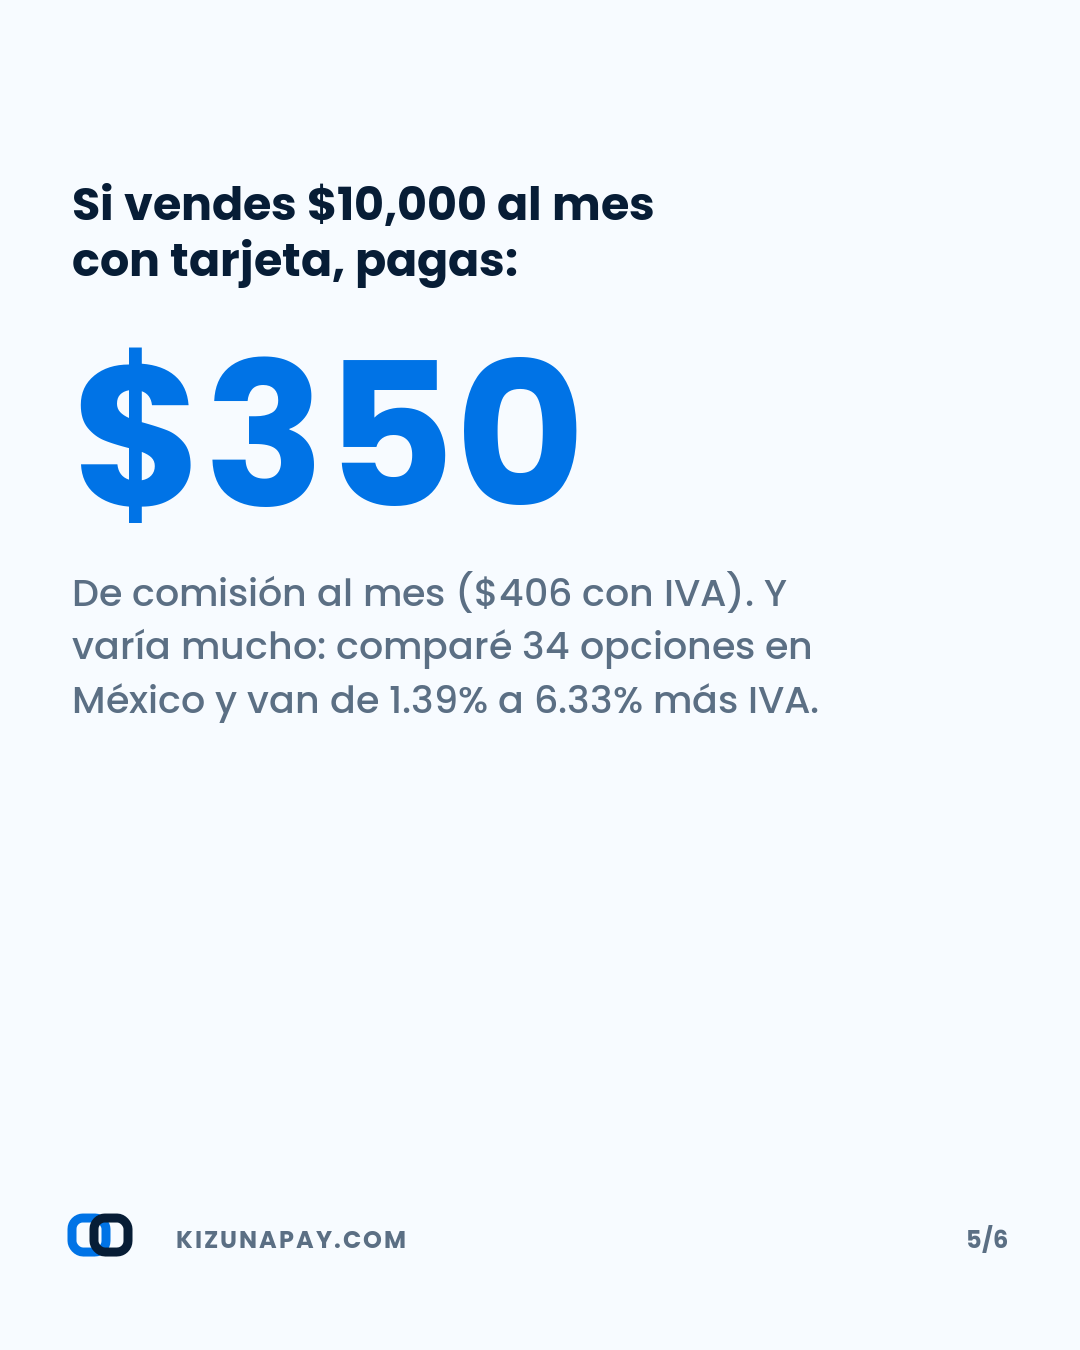
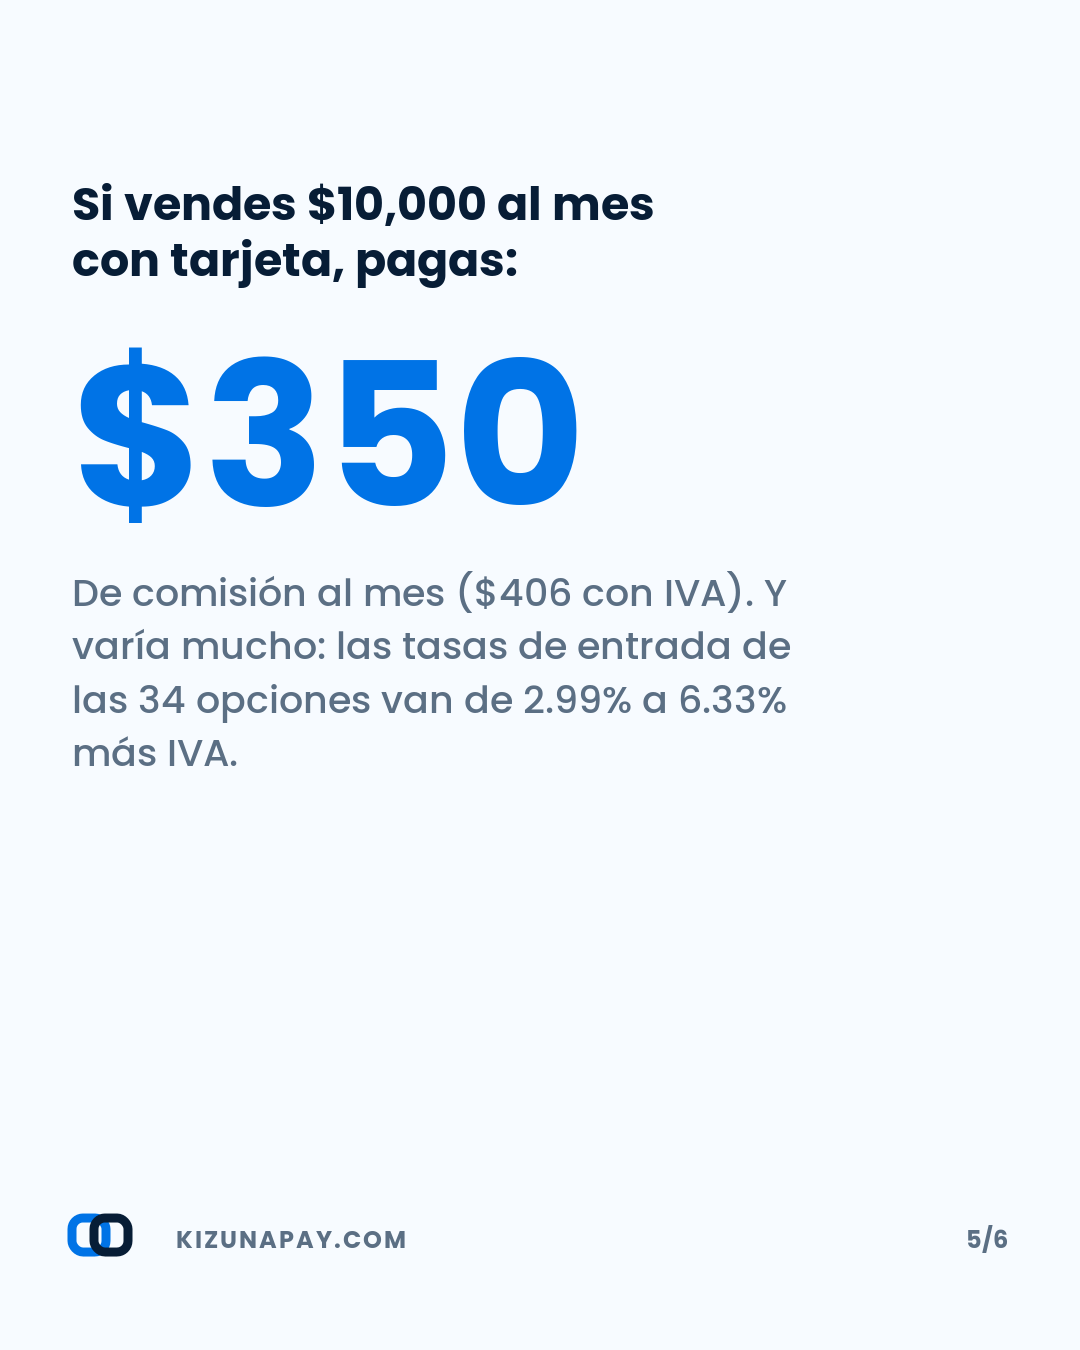
Corregir tasas: usar la de entrada, no la diferencial que exige tramite y CSF
Ualá Bis cobra 2.99% + IVA de entrada; el 1.39% es diferencial y requiere
solicitud, documentacion y CSF (que supone RFC). Usar esa cifra contradecia
justo lo que el sitio critica. Corregido en calculadora, FAQ, JSON-LD,
comparison-data, carrusel y pies de foto.

Changed region(s): [[0.0611, 0.4667, 0.7639, 0.5911]]

diff --git a/index.html b/index.html
@@ -28,7 +28,7 @@
 "sameAs":["https://www.facebook.com/profile.php?id=61582373169392","https://www.instagram.com/solucionesdecobrooax/"]}
 </script>
 <script type="application/ld+json">
-{"@context":"https://schema.org","@type":"FAQPage","mainEntity":[{"@type":"Question","name":"¿Cuánto cobran de comisión por cobrar con tarjeta?","acceptedAnswer":{"@type":"Answer","text":"En las 34 opciones que comparamos, la comisión va de 1.39% a 6.33% más IVA por venta, con la mayoría alrededor del 3.4%. La tasa cambia según si el cliente paga con débito o crédito, y varias opciones cobran además renta mensual o mínimos. Por eso comparar solo la tasa engaña: hay que sumar renta, contrato y tiempo de depósito."}},{"@type":"Question","name":"¿Necesito RFC para tener una terminal?","acceptedAnswer":{"@type":"Answer","text":"Depende de la ruta. Para una terminal bancaria sí: los bancos piden RFC, alta fiscal, cuenta empresarial y en varios casos e.firma. Las terminales de cobro rápido son más flexibles y algunas permiten empezar solo con identificación y validación de perfil. Si todavía no tienes RFC, nuestro diagnóstico descarta automáticamente las opciones bancarias en lugar de recomendarte algo que no vas a poder contratar."}},{"@type":"Question","name":"¿Cuánto tarda en llegarme el dinero?","acceptedAnswer":{"@type":"Answer","text":"Va del mismo día a 72 horas hábiles según el proveedor. Las terminales de cobro rápido suelen liberar el dinero el mismo día o al siguiente; la banca tradicional acostumbra 24 a 48 horas hábiles, y los fines de semana no cuentan. Si tu negocio compra insumos a diario, este dato pesa más que medio punto de comisión."}},{"@type":"Question","name":"¿Me obligan a firmar contrato o pagar renta mensual?","acceptedAnswer":{"@type":"Answer","text":"No siempre. Las terminales de compra única, como las Point que vendemos, no tienen renta ni contrato forzoso: pagas el equipo y la comisión por venta. Varias opciones bancarias sí incluyen renta, monto mínimo de venta o penalización por cancelar antes de tiempo. Esa letra chiquita está en nuestra comparativa."}},{"@type":"Question","name":"¿Qué es una solución de cobro?","acceptedAnswer":{"@type":"Answer","text":"Cualquier herramienta para recibir pagos: terminal física, link de pago, pasarela en línea, cuenta bancaria, billetera digital o cobranza recurrente. No todas sirven para lo mismo, y ahí es donde la mayoría se equivoca al elegir."}},{"@type":"Question","name":"¿Cuándo conviene la banca tradicional?","acceptedAnswer":{"@type":"Answer","text":"Cuando tu negocio ya tiene formalidad fiscal, ventas constantes y volumen suficiente para negociar. Con volumen alto, medio punto de comisión menos compensa la renta mensual. Con ventas bajas o irregulares, esa misma renta te come la ganancia."}},{"@type":"Question","name":"¿Qué me cuesta dar meses sin intereses?","acceptedAnswer":{"@type":"Answer","text":"Los meses sin intereses son gratis para tu cliente, no para ti: el costo lo absorbe el negocio y sube conforme al plazo. Puede convenir en tickets altos, donde la venta no se cierra sin esa facilidad, y rara vez conviene en ventas pequeñas."}},{"@type":"Question","name":"¿Me ayudan aunque no esté en Oaxaca?","acceptedAnswer":{"@type":"Answer","text":"Sí. Somos de Oaxaca, pero orientamos a cualquier negocio en México que quiera comparar antes de comprar o contratar. La asesoría es por WhatsApp y no tiene costo."}}]}
+{"@context":"https://schema.org","@type":"FAQPage","mainEntity":[{"@type":"Question","name":"¿Cuánto cobran de comisión por cobrar con tarjeta?","acceptedAnswer":{"@type":"Answer","text":"En las 34 opciones que comparamos, las tasas de entrada —lo que pagas desde el primer día, sin tramitar nada— van de 2.99% a 6.33% más IVA, con la mayoría entre 3% y 3.6%. Varias anuncian tasas menores, pero exigen solicitud, documentación y CSF; y la banca puede bajar más si negocias por volumen. Además la tasa cambia según si el cliente paga débito o crédito, y algunas cobran renta mensual o mínimos. Por eso comparar solo la tasa engaña."}},{"@type":"Question","name":"¿Necesito RFC para tener una terminal?","acceptedAnswer":{"@type":"Answer","text":"Depende de la ruta. Para una terminal bancaria sí: los bancos piden RFC, alta fiscal, cuenta empresarial y en varios casos e.firma. Las terminales de cobro rápido son más flexibles y algunas permiten empezar solo con identificación y validación de perfil. Si todavía no tienes RFC, nuestro diagnóstico descarta automáticamente las opciones bancarias en lugar de recomendarte algo que no vas a poder contratar."}},{"@type":"Question","name":"¿Cuánto tarda en llegarme el dinero?","acceptedAnswer":{"@type":"Answer","text":"Va del mismo día a 72 horas hábiles según el proveedor. Las terminales de cobro rápido suelen liberar el dinero el mismo día o al siguiente; la banca tradicional acostumbra 24 a 48 horas hábiles, y los fines de semana no cuentan. Si tu negocio compra insumos a diario, este dato pesa más que medio punto de comisión."}},{"@type":"Question","name":"¿Me obligan a firmar contrato o pagar renta mensual?","acceptedAnswer":{"@type":"Answer","text":"No siempre. Las terminales de compra única, como las Point que vendemos, no tienen renta ni contrato forzoso: pagas el equipo y la comisión por venta. Varias opciones bancarias sí incluyen renta, monto mínimo de venta o penalización por cancelar antes de tiempo. Esa letra chiquita está en nuestra comparativa."}},{"@type":"Question","name":"¿Qué es una solución de cobro?","acceptedAnswer":{"@type":"Answer","text":"Cualquier herramienta para recibir pagos: terminal física, link de pago, pasarela en línea, cuenta bancaria, billetera digital o cobranza recurrente. No todas sirven para lo mismo, y ahí es donde la mayoría se equivoca al elegir."}},{"@type":"Question","name":"¿Cuándo conviene la banca tradicional?","acceptedAnswer":{"@type":"Answer","text":"Cuando tu negocio ya tiene formalidad fiscal, ventas constantes y volumen suficiente para negociar. Con volumen alto, medio punto de comisión menos compensa la renta mensual. Con ventas bajas o irregulares, esa misma renta te come la ganancia."}},{"@type":"Question","name":"¿Qué me cuesta dar meses sin intereses?","acceptedAnswer":{"@type":"Answer","text":"Los meses sin intereses son gratis para tu cliente, no para ti: el costo lo absorbe el negocio y sube conforme al plazo. Puede convenir en tickets altos, donde la venta no se cierra sin esa facilidad, y rara vez conviene en ventas pequeñas."}},{"@type":"Question","name":"¿Me ayudan aunque no esté en Oaxaca?","acceptedAnswer":{"@type":"Answer","text":"Sí. Somos de Oaxaca, pero orientamos a cualquier negocio en México que quiera comparar antes de comprar o contratar. La asesoría es por WhatsApp y no tiene costo."}}]}
 </script>
 </head>
 <body>
@@ -191,7 +191,7 @@
         <div class="calc-linea"></div>
         <ul class="calc-lista" id="cLista"></ul>
         <a class="calc-btn" id="cWa" href="https://wa.me/529511825881" target="_blank" rel="noopener">Que lo revisemos juntos</a>
-        <p class="calc-fine">Tasas de referencia de la comparativa. Confirma siempre con cada proveedor.</p>
+        <p class="calc-fine"><b>Usamos la tasa de entrada</b>, la que pagas desde el primer día. Varias opciones anuncian tasas menores, pero exigen solicitud, documentación y CSF. Si calificas puedes pagar menos — te ayudo a tramitarlo. Confirma siempre con cada proveedor.</p>
       </div>
     </div>
   </div>
@@ -356,7 +356,7 @@
 <section class="faq" style="padding-top:8px">
   <div class="wrap" style="max-width:840px">
     <div class="head"><span class="eyebrow">Dudas frecuentes</span><h2>Preguntas frecuentes.</h2></div>
-    <details open><summary>¿Cuánto cobran de comisión por cobrar con tarjeta?</summary><p>En las 34 opciones que comparamos, la comisión va de <b>1.39% a 6.33% más IVA</b> por venta, con la mayoría alrededor del 3.4%. La tasa cambia según si el cliente paga con débito o crédito, y varias opciones cobran además renta mensual o mínimos. Por eso comparar solo la tasa engaña: hay que sumar renta, contrato y tiempo de depósito.</p></details>
+    <details open><summary>¿Cuánto cobran de comisión por cobrar con tarjeta?</summary><p>En las 34 opciones que comparamos, las <b>tasas de entrada</b> —lo que pagas desde el primer día, sin tramitar nada— van de <b>2.99% a 6.33% más IVA</b>, con la mayoría entre 3% y 3.6%. Varias anuncian tasas menores, pero exigen solicitud, documentación y CSF; y la banca puede bajar más si negocias por volumen. Además la tasa cambia según si el cliente paga débito o crédito, y algunas cobran renta mensual o mínimos. Por eso comparar solo la tasa engaña.</p></details>
     <details><summary>¿Necesito RFC para tener una terminal?</summary><p>Depende de la ruta. <b>Para una terminal bancaria sí</b>: los bancos piden RFC, alta fiscal, cuenta empresarial y en varios casos e.firma. Las terminales de cobro rápido son más flexibles y algunas permiten empezar solo con identificación y validación de perfil. Si todavía no tienes RFC, nuestro diagnóstico descarta automáticamente las opciones bancarias en lugar de recomendarte algo que no vas a poder contratar.</p></details>
     <details><summary>¿Cuánto tarda en llegarme el dinero?</summary><p>Va del mismo día a 72 horas hábiles según el proveedor. Las terminales de cobro rápido suelen liberar el dinero el mismo día o al siguiente; la banca tradicional acostumbra 24 a 48 horas hábiles, y los fines de semana no cuentan. Si tu negocio compra insumos a diario, este dato pesa más que medio punto de comisión.</p></details>
     <details><summary>¿Me obligan a firmar contrato o pagar renta mensual?</summary><p>No siempre. Las terminales de compra única, como las Point que vendemos, no tienen renta ni contrato forzoso: pagas el equipo y la comisión por venta. Varias opciones bancarias sí incluyen renta, monto mínimo de venta o penalización por cancelar antes de tiempo. Esa letra chiquita está en nuestra comparativa.</p></details>
@@ -643,14 +643,18 @@
       nota=el('cNota'), lista=el('cLista'), wa=el('cWa');
   var rfc=false;
 
+  /* TASA DE ENTRADA: la que pagas el día uno, sin negociar ni tramitar
+     reducciones. Varias anuncian tasas menores que exigen solicitud,
+     documentación y CSF — y la CSF supone RFC, así que no aplican a
+     todos. Usar esas cifras sería justo lo que criticamos. */
   var OPCIONES=[
-    {n:'Ualá Bis',            tasa:0.0139, renta:0, rfc:false},
-    {n:'Mercado Pago Point',  tasa:0.0350, renta:0, rfc:false},
-    {n:'KiWi',                tasa:0.0320, renta:0, rfc:false},
-    {n:'Clip',                tasa:0.0360, renta:0, rfc:false},
-    {n:'Billpocket',          tasa:0.0350, renta:0, rfc:true },
-    {n:'BBVA TPV',            tasa:0.0200, renta:400, rfc:true},
-    {n:'Banorte TPV',         tasa:0.0250, renta:350, rfc:true}
+    {n:'Ualá Bis',            tasa:0.0299, renta:0,   rfc:false},
+    {n:'KiWi',                tasa:0.0320, renta:0,   rfc:false},
+    {n:'Mercado Pago Point',  tasa:0.0350, renta:0,   rfc:false},
+    {n:'Clip',                tasa:0.0360, renta:0,   rfc:false},
+    {n:'Billpocket',          tasa:0.0350, renta:0,   rfc:true },
+    {n:'BBVA TPV',            tasa:0.0250, renta:400, rfc:true },
+    {n:'Banorte TPV',         tasa:0.0350, renta:350, rfc:true }
   ];
 
   function num(s){var n=parseFloat(String(s).replace(/[^0-9.]/g,''));return isNaN(n)?0:n}

diff --git a/comparison-data.js b/comparison-data.js
@@ -25,7 +25,7 @@ window.COMPARISON_PROVIDERS = [
   },
   {
     name: 'Ualá Bis', domain: 'ualabis.com.mx', url: 'https://www.ualabis.com.mx/', category: 'rapida', type: 'Opción rápida de cobro',
-    cost: 'Desde 1.39% + IVA según tu giro, según sitio oficial. Registro 100% digital y activación rápida.', hardware: 'Terminal mPOS y POS Pro; compra única.', requirements: 'Identificación y registro digital en Ualá Bis.', settlement: 'Inmediata a cuenta Ualá, según condiciones.', review: 'Tasa exacta según giro, límites, términos y condiciones vigentes.'
+    cost: 'Tasa de entrada 2.99% + IVA para todos. Puede bajar hasta 1.39% con comisión diferencial, solicitándola con documentación y CSF si tu giro participa.', hardware: 'Terminal mPOS y POS Pro; compra única.', requirements: 'Identificación y registro digital en Ualá Bis.', settlement: 'Inmediata a cuenta Ualá, según condiciones.', review: 'Tasa exacta según giro, límites, términos y condiciones vigentes.'
   },
   {
     name: 'Feenicia', domain: 'feenicia.com', url: 'https://feenicia.com/', category: 'rapida', type: 'Opción rápida de cobro',

diff --git a/scripts/generar_carruseles.py b/scripts/generar_carruseles.py
@@ -185,8 +185,8 @@ def carrusel_comision():
         dato('Lo que realmente te llega a la cuenta:', '$479.70',
              'De cada $500 que cobras con tarjeta.', 4, n, color=VERDE),
         dato('Si vendes $10,000 al mes con tarjeta, pagas:', '$350',
-             'De comisión al mes ($406 con IVA). Y varía mucho: comparé 34 opciones '
-             'en México y van de 1.39% a 6.33% más IVA.', 5, n),
+             'De comisión al mes ($406 con IVA). Y varía mucho: las tasas de entrada '
+             'de las 34 opciones van de 2.99% a 6.33% más IVA.', 5, n),
         cierre('No es un gasto. Es lo que inviertes para vender más.',
                'Los negocios que empiezan a aceptar tarjeta suelen vender hasta un 30% más, '
                'porque dejan de perder al cliente que llega sin efectivo. Para ganar más hay '

diff --git a/docs/kizuna-pies-de-foto.md b/docs/kizuna-pies-de-foto.md
@@ -21,7 +21,7 @@
 >
 > Y aquí está lo que casi nadie te dice: eso no es un gasto, es lo que inviertes para vender más. Los negocios que empiezan a aceptar tarjeta suelen vender hasta un 30% más, porque dejan de perder al cliente que llega sin efectivo.
 >
-> Para ganar más hay que invertir en ciertos costos. La clave es pagar el correcto: comparé 34 opciones en México y las tasas van de 1.39% a 6.33% más IVA. La diferencia entre una y otra es real.
+> Para ganar más hay que invertir en ciertos costos. La clave es pagar el correcto: comparé 34 opciones en México y las tasas de entrada van de 2.99% a 6.33% más IVA. La diferencia entre una y otra es real.
 >
 > ¿Quieres saber cuál le conviene a tu negocio? Escríbeme, la asesoría no tiene costo.
 >
